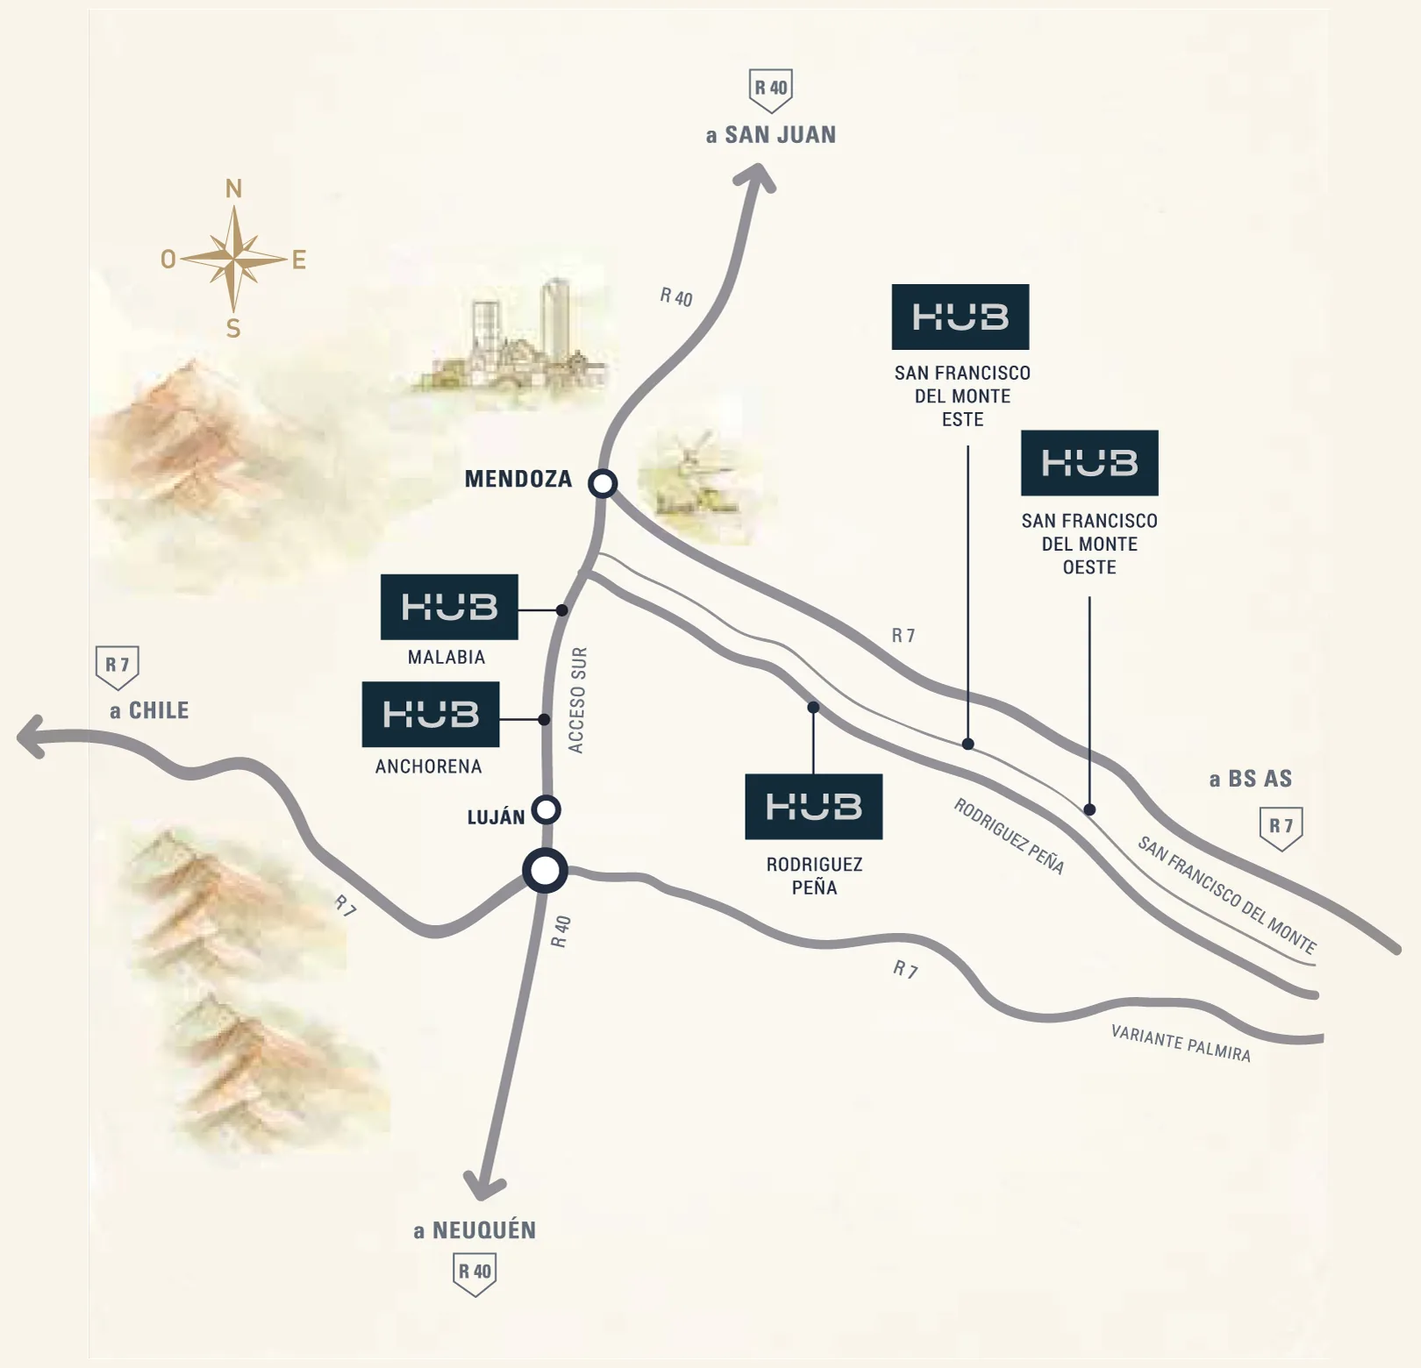
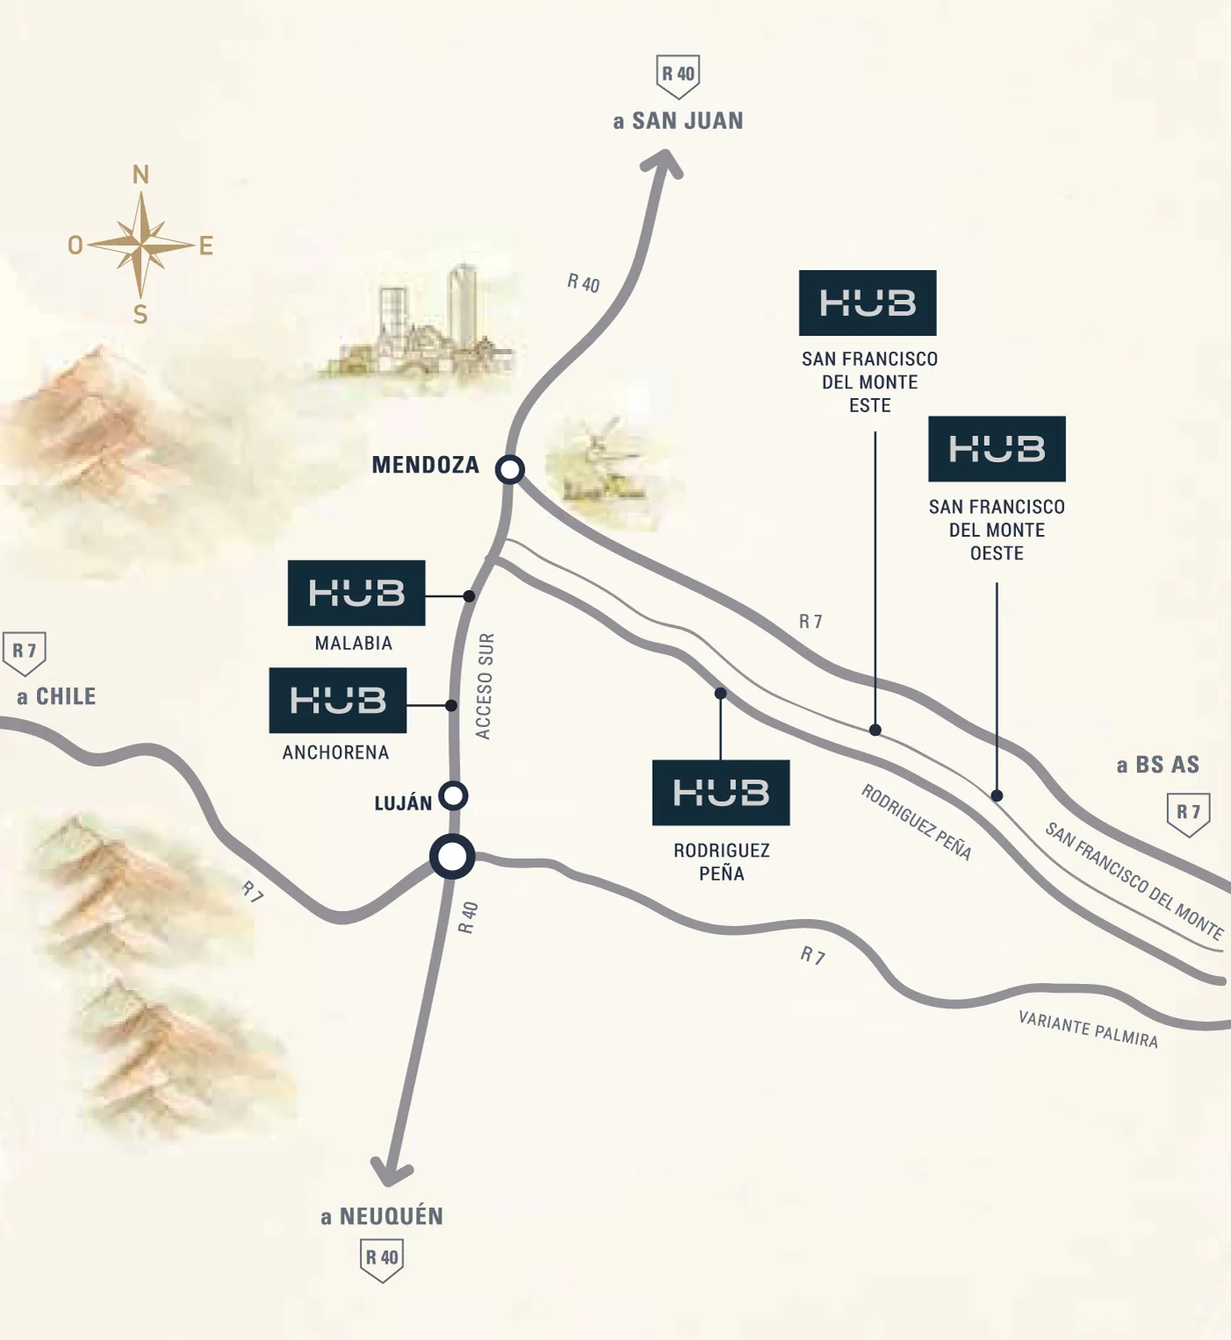
feat: Desarrollos con el planteo del sitio anterior (mapa + tarjeta + lista)
- Escritorio (≥900px): mapa grande a la izquierda; a la derecha la tarjeta
  del parque (render, logo, perfil, superficie, CTAs) y la lista compacta.
  Hover previsualiza en el lugar, clic fija; cada fila con "Ver →".
- Pantallas chicas: mapa arriba y filas compactas con miniatura que llevan
  a cada desarrollo. Se elimina el render/lista/mapa en dos filas que se
  superponía en mobile.
- Mapa recortado exactamente al papel (sin marco ni costura de color);
  zonas y puntos re-medidos.

diff --git a/src/styles/home.css b/src/styles/home.css
@@ -173,60 +173,54 @@
 .pg-home .section-head{display:grid;grid-template-columns:.8fr 1.2fr;gap:64px;align-items:end;margin-bottom:40px}
 .pg-home .section-head h2{margin:0}
 .pg-home .section-head p{font-size:17px;color:var(--muted);max-width:650px;margin:0}
-.pg-home .dev-shell{
-  display:grid;grid-template-columns:minmax(0,1.35fr) minmax(400px,.65fr);
-  border-top:1px solid var(--line);border-bottom:1px solid var(--line);min-height:0;height:min(480px,60vh);
+/* Planteo del sitio anterior: mapa grande a la izquierda; tarjeta del parque + lista a la derecha. */
+.pg-home .red{display:grid;grid-template-columns:minmax(0,1.45fr) minmax(340px,1fr);gap:32px;align-items:start}
+.pg-home .red-mapa-title{display:flex;justify-content:space-between;gap:20px;margin-bottom:10px}
+.pg-home .red-mapa-title span{font-family:var(--utility);font-size:11px;letter-spacing:.1em;text-transform:uppercase;color:#718086}
+.pg-home .red-mapa-box{background:#F8F4EA;border:1px solid var(--line);padding:12px}
+/* El mapa es casi cuadrado: se limita por el alto de pantalla para que la sección entre en una notebook. */
+.pg-home .red-mapa-box .mapa-red{max-width:min(100%,calc((100vh - 250px) * 1.04));margin-inline:auto}
+.pg-home .red-panel{display:flex;flex-direction:column;gap:12px;padding-top:25px}
+.pg-home .red-preview{position:relative;aspect-ratio:16/9;overflow:hidden;background:var(--hub-blue-deep);color:#fff}
+.pg-home .red-preview-img{position:absolute;inset:0;background:center/cover no-repeat;opacity:0;transform:scale(1.03);transition:opacity .45s ease,transform .9s var(--ease)}
+.pg-home .red-preview-img.is-active{opacity:1;transform:none}
+.pg-home .red-preview::after{content:"";position:absolute;inset:0;background:linear-gradient(0deg,rgba(7,24,32,.92) 0%,rgba(7,24,32,.35) 55%,rgba(7,24,32,.05) 100%);pointer-events:none}
+.pg-home .red-preview-info{position:absolute;z-index:2;left:20px;right:20px;bottom:76px;display:flex;align-items:flex-end;gap:14px}
+.pg-home .red-preview-logo{width:120px;height:auto;flex:0 0 auto}
+.pg-home .red-preview-text{display:flex;flex-direction:column;gap:2px;min-width:0}
+.pg-home .red-preview-perfil{font-family:var(--title);font-weight:700;font-size:18px;line-height:1.15}
+.pg-home .red-preview-area{font-family:var(--utility);font-size:11px;letter-spacing:.12em;text-transform:uppercase;color:rgba(255,255,255,.72)}
+.pg-home .red-preview-actions{position:absolute;z-index:2;left:20px;right:20px;bottom:18px;display:flex;gap:8px}
+.pg-home .red-preview-actions .btn{min-height:42px;padding:0 16px;font-size:13px}
+.pg-home .red-lista{list-style:none;margin:0;padding:0;border-top:1px solid var(--line)}
+.pg-home .red-item{position:relative;display:flex;align-items:center;gap:12px;border-bottom:1px solid var(--line)}
+.pg-home .red-item::before{content:"";position:absolute;left:0;top:0;bottom:0;width:3px;background:var(--hub-blue);transform:scaleY(0);transition:transform .25s var(--ease)}
+.pg-home .red-item.is-active::before{transform:scaleY(1)}
+.pg-home .red-item-btn{flex:1;min-width:0;display:flex;align-items:center;gap:14px;padding:9px 0 9px 16px;border:0;background:none;text-align:left;cursor:pointer;color:var(--hub-blue)}
+.pg-home .red-item-btn .idx{font-family:var(--utility);font-size:11px;color:#7b898f;width:18px;flex:0 0 auto}
+.pg-home .red-item-txt{min-width:0;display:flex;flex-direction:column}
+.pg-home .red-item-txt strong{font-family:var(--title);font-weight:700;font-size:16px;line-height:1.2}
+.pg-home .red-item-txt small{font-size:12px;color:#69777e;margin-top:2px}
+.pg-home .red-item.is-fijado .red-item-txt strong{color:#000}
+.pg-home .red-item-ver{flex:0 0 auto;font-family:var(--utility);font-size:11px;font-weight:600;letter-spacing:.12em;text-transform:uppercase;text-decoration:none;color:var(--hub-blue);opacity:.55;padding:10px 4px;transition:opacity .2s}
+.pg-home .red-item:hover .red-item-ver,.pg-home .red-item-ver:focus-visible{opacity:1}
+/* Pantallas chicas: filas compactas con miniatura (como la lista del sitio anterior). */
+.pg-home .red-cards{list-style:none;margin:0;padding:0;border-top:1px solid var(--line)}
+.pg-home .red-card{display:flex;align-items:center;gap:14px;padding:10px 0;border-bottom:1px solid var(--line);text-decoration:none;color:var(--hub-blue)}
+.pg-home .red-card-img{width:88px;height:66px;object-fit:cover;flex:0 0 auto;background:#e6e3de}
+.pg-home .red-card-body{flex:1;min-width:0;display:flex;flex-direction:column}
+.pg-home .red-card-body .idx{font-family:var(--utility);font-size:10px;letter-spacing:.12em;color:#7b898f}
+.pg-home .red-card-body strong{font-family:var(--title);font-weight:700;font-size:15px;line-height:1.2}
+.pg-home .red-card-body small{font-size:12px;color:#69777e;margin-top:2px}
+.pg-home .red-card-ver{flex:0 0 auto;font-size:18px;padding:0 4px;color:var(--hub-blue)}
+.pg-home .red-solo-mobile{display:none}
+@media(max-width:1100px){.pg-home .red{grid-template-columns:minmax(0,1.2fr) minmax(300px,1fr);gap:24px}}
+@media(max-width:900px){
+  .pg-home .red{grid-template-columns:1fr;gap:20px}
+  .pg-home .red-solo-desktop{display:none}
+  .pg-home .red-solo-mobile{display:block}
+  .pg-home .red-mapa-box .mapa-red{max-width:560px}
 }
-.pg-home .dev-visual{position:relative;overflow:hidden;background:#e6e3de}
-.pg-home .dev-image{
-  position:absolute;inset:0;background-position:center;background-size:cover;
-  opacity:0;transform:scale(1.025);transition:opacity .5s ease,transform 1s var(--ease);
-}
-.pg-home .dev-image.is-active{opacity:1;transform:scale(1)}
-.pg-home .dev-visual-overlay{
-  position:absolute;left:38px;bottom:34px;background:rgba(255,255,255,.93);
-  padding:18px 22px;min-width:300px;backdrop-filter:blur(8px);
-}
-.pg-home .dev-visual-overlay img{display:block;width:230px;max-width:100%;height:auto}
-.pg-home .dev-visual-overlay strong{display:block;margin-top:13px;font-family:var(--title);font-size:20px;line-height:1.1;font-weight:700;letter-spacing:-.005em}
-.pg-home .dev-panel{padding:0 0 0 46px;display:flex;flex-direction:column}
-.pg-home .dev-list{flex:1;display:grid;grid-auto-rows:1fr}
-.pg-home .dev-btn{
-  position:relative;width:100%;display:grid;grid-template-columns:42px minmax(0,1fr) 110px;
-  gap:16px;align-items:center;text-align:left;padding:14px 0;
-  border:0;border-bottom:1px solid var(--line);background:transparent;cursor:pointer;color:var(--hub-blue);
-}
-.pg-home .dev-btn::before{
-  content:"";position:absolute;left:-46px;top:0;bottom:0;width:3px;background:var(--hub-blue);
-  transform:scaleY(0);transform-origin:center;transition:transform .3s var(--ease);
-}
-.pg-home .dev-btn.is-active::before{transform:scaleY(1)}
-.pg-home .dev-btn .idx{font-family:var(--utility);font-size:11px;color:#7b898f}
-.pg-home .dev-btn strong{
-  display:block;font-size:19px;line-height:1.15;font-family:var(--title);font-weight:700;
-  letter-spacing:-.005em;transition:color .25s;
-}
-.pg-home .dev-btn small{display:block;margin-top:5px;font-size:13px;color:#69777e}
-.pg-home .dev-btn .area{font-size:13px;color:#65747b;text-align:right;white-space:nowrap}
-/* Mismo tamaño: el estado activo se marca con filete y color, nunca agrandando la tipografía. */
-.pg-home .dev-btn.is-active strong{color:#000}
-.pg-home .dev-red{
-  display:grid;grid-template-columns:minmax(0,1.35fr) minmax(400px,.65fr);
-  border-bottom:1px solid var(--line);
-}
-.pg-home .dev-map{padding:24px 0}
-.pg-home .dev-map-title{display:flex;justify-content:space-between;gap:20px;margin:0 auto 10px;max-width:520px}
-.pg-home .dev-map-title span{font-family:var(--utility);font-size:11px;letter-spacing:.1em;text-transform:uppercase;color:#718086}
-.pg-home .dev-map-box{max-width:520px;margin-inline:auto}
-.pg-home .dev-meta{padding:36px 0 24px 46px;display:flex;flex-direction:column}
-.pg-home .dev-meta .eyebrow{color:#718086;margin-bottom:16px}
-.pg-home .dev-meta h3{font-size:24px;margin:0 0 18px}
-.pg-home .dev-facts{margin:0 0 22px;border-top:1px solid var(--line)}
-.pg-home .dev-facts div{display:flex;justify-content:space-between;gap:16px;padding:12px 0;border-bottom:1px solid var(--line)}
-.pg-home .dev-facts dt{font-family:var(--utility);font-size:11px;letter-spacing:.12em;text-transform:uppercase;color:#718086}
-.pg-home .dev-facts dd{margin:0;font-weight:500;text-align:right}
-.pg-home .dev-meta p{font-size:15px;color:var(--muted);max-width:540px;margin-bottom:22px}
-.pg-home .dev-meta .dev-map-hint{margin:auto 0 0;padding-top:28px;font-size:12px;color:#8a969b}
 .pg-home .render-note{font-size:11px;color:#738188;margin-top:18px}
 
 /* MODELO HUB */
@@ -260,13 +254,6 @@
   .pg-home .enterprise-grid{grid-template-columns:1fr}
   .pg-home .enterprise-media{height:min(460px,60vw)}
   .pg-home .enterprise-content{padding:40px 0 0}
-  .pg-home .dev-shell,.pg-home .dev-red{grid-template-columns:1fr}
-  .pg-home .dev-shell{height:auto}
-  .pg-home .dev-visual{height:min(560px,70vw)}
-  .pg-home .dev-meta{padding:8px 0 40px}
-  .pg-home .dev-panel{padding:36px 0 0}
-  .pg-home .dev-btn::before{left:0}
-  .pg-home .dev-btn{padding-left:16px}
   .pg-home .business-steps{grid-template-columns:1fr 1fr;gap:52px 0}
   .pg-home .business-line{display:none}
 }
@@ -302,18 +289,6 @@
   .pg-home .enterprise-media{height:300px}
   .pg-home .enterprise-content{padding:32px 0 0}
   .pg-home .capability{grid-template-columns:38px 1fr}.pg-home .capability span:last-child{grid-column:2}
-  .pg-home .dev-visual{height:300px}
-  /* Perfil y terreno ya están en el listado: en celular no se repiten. */
-  .pg-home .dev-facts,.pg-home .dev-meta .dev-map-hint{display:none}
-  .pg-home .dev-meta h3{margin-bottom:10px}
-  .pg-home .dev-visual-overlay{left:18px;right:18px;bottom:18px;min-width:0}
-  .pg-home .dev-list{grid-auto-rows:auto}
-  .pg-home .dev-btn{grid-template-columns:32px 1fr;row-gap:4px;padding:16px 0}
-  .pg-home .dev-btn strong{font-size:19px}
-  .pg-home .dev-btn .area{grid-column:2;text-align:left}
-  .pg-home .dev-visual-overlay{padding:12px 14px}
-  .pg-home .dev-visual-overlay img{width:150px}
-  .pg-home .dev-visual-overlay strong{font-size:16px;margin-top:8px}
   .pg-home .business-steps{grid-template-columns:1fr;gap:36px}
   .pg-home .business-step,.pg-home .business-step:not(:first-child){padding:0;min-height:0}
   .pg-home .business-step .dot{display:none}

diff --git a/src/pages/Home.jsx b/src/pages/Home.jsx
@@ -239,13 +239,19 @@ function Empresas() {
   )
 }
 
+// Planteo del sitio anterior (pedido de Franco, 28-09): mapa grande a la izquierda y, a la derecha,
+// la tarjeta del parque + la lista compacta. Hover previsualiza; clic fija. En pantallas chicas:
+// mapa arriba y una tarjeta por parque que lleva a su página (nada se re-renderiza en otro lugar).
 function Desarrollos() {
   const { abrirLead } = useSite()
-  const [activo, setActivoState] = useState('anchorena')
-  // Solo se piden los renders ya elegidos o con hover/foco (precarga): evita bajar los cinco al entrar.
+  const [fijado, setFijado] = useState('anchorena')
+  const [hover, setHover] = useState(null)
+  // Solo se piden los renders ya vistos o con hover: evita bajar los cinco al entrar.
   const [pedidos, setPedidos] = useState(() => new Set(['anchorena']))
-  const pedir = (slug) => setPedidos((prev) => (prev.has(slug) ? prev : new Set([...prev, slug])))
-  const setActivo = (slug) => { pedir(slug); setActivoState(slug) }
+  const pedir = (slug) => slug && setPedidos((prev) => (prev.has(slug) ? prev : new Set([...prev, slug])))
+  const previsualizar = (slug) => { pedir(slug); setHover(slug) }
+  const fijar = (slug) => { pedir(slug); setFijado(slug) }
+  const activo = hover || fijado
   const d = desarrolloPorSlug[activo]
 
   return (
@@ -259,52 +265,59 @@ function Desarrollos() {
           <p data-reveal="right">Desde espacios con mayor vocación urbana hasta naves industriales y centros de almacenamiento. Cada desarrollo combina ubicación, infraestructura y un perfil propio.</p>
         </div>
 
-        <div className="dev-shell" data-reveal>
-          <div className="dev-visual" aria-live="polite">
-            {desarrollos.map((x) => (
-              <div key={x.slug} className={`dev-image${x.slug === activo ? ' is-active' : ''}`} style={pedidos.has(x.slug) ? { backgroundImage: `url(${x.render})` } : undefined} role="img" aria-label={`Render ${x.label}`} aria-hidden={x.slug !== activo} />
-            ))}
-            <div className="dev-visual-overlay">
-              <img src={d.logo} alt={d.label} width="230" height="112" />
-              <strong>{d.titulo}</strong>
-            </div>
+        <div className="red" data-reveal>
+          <div className="red-mapa">
+            <div className="red-mapa-title"><span>Red HUB · Mendoza</span><span>Corredores productivos</span></div>
+            <div className="red-mapa-box red-solo-desktop"><MapaRed activo={activo} onSelect={fijar} onHover={(slug) => (slug ? previsualizar(slug) : setHover(null))} /></div>
+            <div className="red-mapa-box red-solo-mobile"><MapaRed linkear /></div>
           </div>
 
-          <div className="dev-panel">
-            <div className="dev-list">
-              {desarrollos.map((x, i) => (
-                <button key={x.slug} type="button" className={`dev-btn${x.slug === activo ? ' is-active' : ''}`} aria-pressed={x.slug === activo} onClick={() => setActivo(x.slug)} onMouseEnter={() => pedir(x.slug)} onFocus={() => pedir(x.slug)}>
-                  <span className="idx">{String(i + 1).padStart(2, '0')}</span>
-                  <span><strong>{x.nombre}</strong><small>{x.descriptor}</small></span>
-                  <span className="area">{x.area}</span>
-                </button>
+          <div className="red-panel red-solo-desktop">
+            <article className="red-preview" aria-live="polite">
+              {desarrollos.map((x) => (
+                <div key={x.slug} className={`red-preview-img${x.slug === activo ? ' is-active' : ''}`} style={pedidos.has(x.slug) ? { backgroundImage: `url(${x.render})` } : undefined} role="img" aria-label={`Render ${x.label}`} aria-hidden={x.slug !== activo} />
               ))}
-            </div>
+              <div className="red-preview-info">
+                <img className="red-preview-logo" src={d.logo} alt={d.label} width="120" height="58" />
+                <div className="red-preview-text">
+                  <span className="red-preview-perfil">{d.titulo}</span>
+                  <span className="red-preview-area">{d.area} de terreno</span>
+                </div>
+              </div>
+              <div className="red-preview-actions">
+                <button className="btn btn--orange" type="button" onClick={() => abrirLead({ recurso: d.recurso, perfil: 'usuarios', desarrollo: d.nombre, bloque: 'home-desarrollos' })}>Recibir ficha técnica</button>
+                <Link className="btn btn--white" to={`/desarrollos/${d.slug}`}>Ver desarrollo</Link>
+              </div>
+            </article>
 
+            <ul className="red-lista" onMouseLeave={() => setHover(null)}>
+              {desarrollos.map((x, i) => (
+                <li key={x.slug} className={`red-item${x.slug === activo ? ' is-active' : ''}${x.slug === fijado ? ' is-fijado' : ''}`} onMouseEnter={() => previsualizar(x.slug)}>
+                  <button type="button" className="red-item-btn" aria-pressed={x.slug === fijado} onClick={() => fijar(x.slug)} onFocus={() => previsualizar(x.slug)}>
+                    <span className="idx">{String(i + 1).padStart(2, '0')}</span>
+                    <span className="red-item-txt"><strong>{x.nombre}</strong><small>{x.descriptor} · {x.area}</small></span>
+                  </button>
+                  <Link className="red-item-ver" to={`/desarrollos/${x.slug}`} aria-label={`Ver ${x.label}`}>Ver →</Link>
+                </li>
+              ))}
+            </ul>
           </div>
-        </div>
 
-        {/* El mapa sale de la columna angosta: en la maqueta medía ~330 px y no se leía. */}
-        <div className="dev-red" data-reveal>
-          <div className="dev-map">
-            <div className="dev-map-title"><span>Red HUB · Mendoza</span><span>Corredores productivos</span></div>
-            <div className="dev-map-box"><MapaRed activo={activo} onSelect={setActivo} onHover={pedir} /></div>
-          </div>
-
-          <div className="dev-meta">
-            <div className="eyebrow">Desarrollo seleccionado</div>
-            <h3>{d.label}</h3>
-            <dl className="dev-facts">
-              <div><dt>Perfil</dt><dd>{d.titulo}</dd></div>
-              <div><dt>Terreno</dt><dd>{d.area}</dd></div>
-            </dl>
-            <p>{d.textoHome}</p>
-            <div className="actions">
-              <button className="btn btn--blue" type="button" onClick={() => abrirLead({ recurso: d.recurso, perfil: 'usuarios', desarrollo: d.nombre, bloque: 'home-desarrollos' })}>Recibir ficha técnica</button>
-              <Link className="text-link" to={`/desarrollos/${d.slug}`}>Ver {d.label} →</Link>
-            </div>
-            <p className="dev-map-hint">Elegí un punto del mapa o un desarrollo de la lista para verlo.</p>
-          </div>
+          <ul className="red-cards red-solo-mobile">
+            {desarrollos.map((x, i) => (
+              <li key={x.slug}>
+                <Link className="red-card" to={`/desarrollos/${x.slug}`}>
+                  <img className="red-card-img" src={x.render} alt="" loading="lazy" decoding="async" />
+                  <span className="red-card-body">
+                    <span className="idx">{String(i + 1).padStart(2, '0')}</span>
+                    <strong>{x.nombre}</strong>
+                    <small>{x.descriptor} · {x.area}</small>
+                  </span>
+                  <span className="red-card-ver" aria-hidden="true">→</span>
+                </Link>
+              </li>
+            ))}
+          </ul>
         </div>
 
         <p className="render-note">Las imágenes y renders son ilustrativos. Superficies, servicios, plazos y características pueden ajustarse durante el desarrollo y deben confirmarse en la documentación y disponibilidad vigentes.</p>

diff --git a/src/components/site/MapaRed.jsx b/src/components/site/MapaRed.jsx
@@ -2,25 +2,27 @@ import { Link } from 'react-router-dom'
 import mapa from '../../assets/v3/mapa-ok.webp'
 import { desarrollos } from '../../data/desarrollos'
 
-// Medido sobre mapa-ok.webp (1620×1560): MAPA-OK.jpg recortado a (100,200)-(1720,1760), con el
-// blanco de alrededor del papel pasado a crema. `zona` = recuadro que el mapa ya dibuja (logo HUB +
-// nombre), en % x/y/ancho/alto; `punto` = donde el desarrollo toca la ruta. Otro mapa ⇒ re-medir.
+// Medido sobre mapa-ok.webp (1403×1528): MAPA-OK.jpg recortado exactamente al papel, (206,216)-(1609,1744);
+// las flechas a Chile y Buenos Aires quedan cortadas en el borde, como una ruta que sigue fuera de cuadro.
+// `zona` = recuadro que el mapa ya dibuja (logo HUB + nombre), en % x/y/ancho/alto; `punto` = donde el
+// desarrollo toca la ruta. Otro mapa ⇒ re-medir.
 const NODOS = {
-  malabia: { zona: [26.2, 41.5, 10.9, 7.7], punto: [39.5, 44.6] },
-  anchorena: { zona: [24.7, 49.5, 11.1, 7.7], punto: [38.3, 52.6] },
-  'san-francisco-oeste': { zona: [71.0, 30.8, 11.1, 11.8], punto: [76.7, 59.2] },
-  'san-francisco-este': { zona: [61.7, 20.3, 11.7, 10.4], punto: [68.1, 54.4] },
-  'rodriguez-pena': { zona: [51.9, 56.2, 10.9, 9.9], punto: [57.2, 51.7] },
+  malabia: { zona: [22.7, 41.3, 12.6, 7.9], punto: [38.1, 44.5] },
+  anchorena: { zona: [21.0, 49.5, 12.8, 7.9], punto: [36.7, 52.7] },
+  'san-francisco-oeste': { zona: [74.4, 30.4, 12.8, 12.0], punto: [81.0, 59.4] },
+  'san-francisco-este': { zona: [63.7, 19.7, 13.5, 10.6], punto: [71.1, 54.5] },
+  'rodriguez-pena': { zona: [52.4, 56.3, 12.6, 10.1], punto: [58.5, 51.7] },
 }
 
 // Mapa original aprobado + capa interactiva. No se agregan etiquetas propias: el mapa ya nombra
 // cada desarrollo, y encima tapaban otros logos. El activo se marca con contorno y halo (handoff §4).
-// Con `onSelect` las zonas cambian el desarrollo activo; con `linkear`, llevan a su ficha.
+// Con `onSelect` las zonas cambian el desarrollo activo (`onHover` recibe el slug o null al salir);
+// con `linkear`, llevan a su ficha.
 export default function MapaRed({ activo, onSelect, onHover, linkear = false, alt = 'Mapa de la red HUB y sus conexiones productivas en Mendoza' }) {
   const act = activo && NODOS[activo]
   return (
     <div className="mapa-red">
-      <img src={mapa} alt={alt} width="1620" height="1560" loading="lazy" decoding="async" />
+      <img src={mapa} alt={alt} width="1403" height="1528" loading="lazy" decoding="async" />
       {act && <span className="mapa-punto" style={{ left: `${act.punto[0]}%`, top: `${act.punto[1]}%` }} aria-hidden="true" />}
       {desarrollos.map((d) => {
         const [x, y, w, h] = NODOS[d.slug].zona
@@ -29,7 +31,7 @@ export default function MapaRed({ activo, onSelect, onHover, linkear = false, al
         const style = { left: `${x}%`, top: `${y}%`, width: `${w}%`, height: `${h}%` }
 
         if (onSelect) {
-          return <button key={d.slug} type="button" className={cls} style={style} aria-label={`Ver ${d.label}`} aria-pressed={esActivo} onClick={() => onSelect(d.slug)} onMouseEnter={() => onHover?.(d.slug)} />
+          return <button key={d.slug} type="button" className={cls} style={style} aria-label={`Ver ${d.label}`} aria-pressed={esActivo} onClick={() => onSelect(d.slug)} onMouseEnter={() => onHover?.(d.slug)} onMouseLeave={() => onHover?.(null)} onFocus={() => onHover?.(d.slug)} onBlur={() => onHover?.(null)} />
         }
         if (linkear && !esActivo) {
           return <Link key={d.slug} to={`/desarrollos/${d.slug}`} className={cls} style={style} aria-label={`Ir a ${d.label}`} />

diff --git a/src/styles/landing.css b/src/styles/landing.css
@@ -106,7 +106,7 @@
 .pg-landing .service span{color:var(--muted);font-size:14px}
 
 /* mapa */
-.pg-landing .map-box{background:#F9F5EA;border:1px solid var(--line);padding:16px;margin-top:28px}
+.pg-landing .map-box{background:#F8F4EA;border:1px solid var(--line);padding:16px;margin-top:28px}
 .pg-landing .map-box img{width:100%;height:auto}
 /* A ancho completo el mapa pasa los 1.100 px de alto: se acota y se centra dentro del recuadro. */
 .pg-landing .map-box .mapa-red{max-width:560px;margin-inline:auto}

diff --git a/src/styles/shared.css b/src/styles/shared.css
@@ -185,7 +185,7 @@ body.no-scroll{overflow:hidden}
 .cookie .btn:not(.btn--blue){color:var(--hub-blue)}
 
 /* MAPA — imagen original aprobada + zonas interactivas sobre los recuadros que ya dibuja */
-.mapa-red{position:relative;background:#F9F5EA}
+.mapa-red{position:relative;background:#F8F4EA}
 .mapa-red img{width:100%;height:auto;display:block}
 .mapa-zona{
   position:absolute;display:block;padding:0;margin:0;background:transparent;cursor:pointer;
